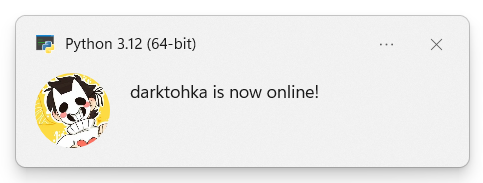
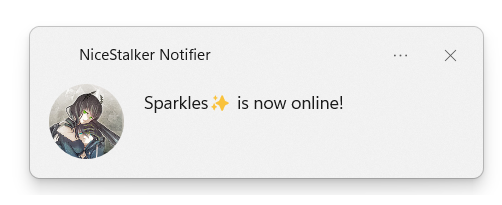
Update for new Toasted library version (0.2.0)

diff --git a/nicestalker/notifier.py b/nicestalker/notifier.py
@@ -1,12 +1,23 @@
 from nicestalker.discord_token import Discord
-from toasted import Toast, Text, Image, Progress
+from toasted import Toast, Text, Image, ToastImagePlacement
+from toasted.common import resolve_uri
+from pathlib import Path
+from tempfile import TemporaryFile
 import discord
 import time
+
+APP_ID = "NiceStalker Notifier"
+DISPLAY_NAME = "NiceStalker Notifier"
 
 class NotifierClient(discord.Client):
 
     def __init__(self):
         discord.Client.__init__(self)
+        Toast.register_app_id(
+            handle = APP_ID,
+            display_name = DISPLAY_NAME,
+            icon_uri = None
+        )
         self.last_update = {}
 
     async def on_ready(self):
@@ -33,20 +44,12 @@ class NotifierClient(discord.Client):
         elements = []
 
         if profile_avatar_url:
-            elements.append({
-                "@type": "image",
-                "source": profile_avatar_url,
-                "placement": "LOGO",
-                "is_circle": True
-            })
+            elements.append(Image(profile_avatar_url, placement = ToastImagePlacement.LOGO, is_circle = True))
         
-        elements.append({
-            "@type": "text",
-            "content": content
-        })
+        elements.append(Text(content))
 
-        data = {"elements": elements}
-        toast = Toast.from_json(data)
+        toast = Toast(app_id=APP_ID,  remote_media = True)
+        toast.elements = elements
         await toast.show()
 
     async def on_presence_update(self, before, after):
@@ -61,7 +64,7 @@ class NotifierClient(discord.Client):
             discord_id = before.id
             profile_avatar_url = before.avatar.url if before.avatar else None
         
-        if before.status != after.status and not is_relationship:
+        if before.status != after.status:
             if before.status == discord.Status.offline:
                 await self.alert_online(name, discord_id, profile_avatar_url)
 
